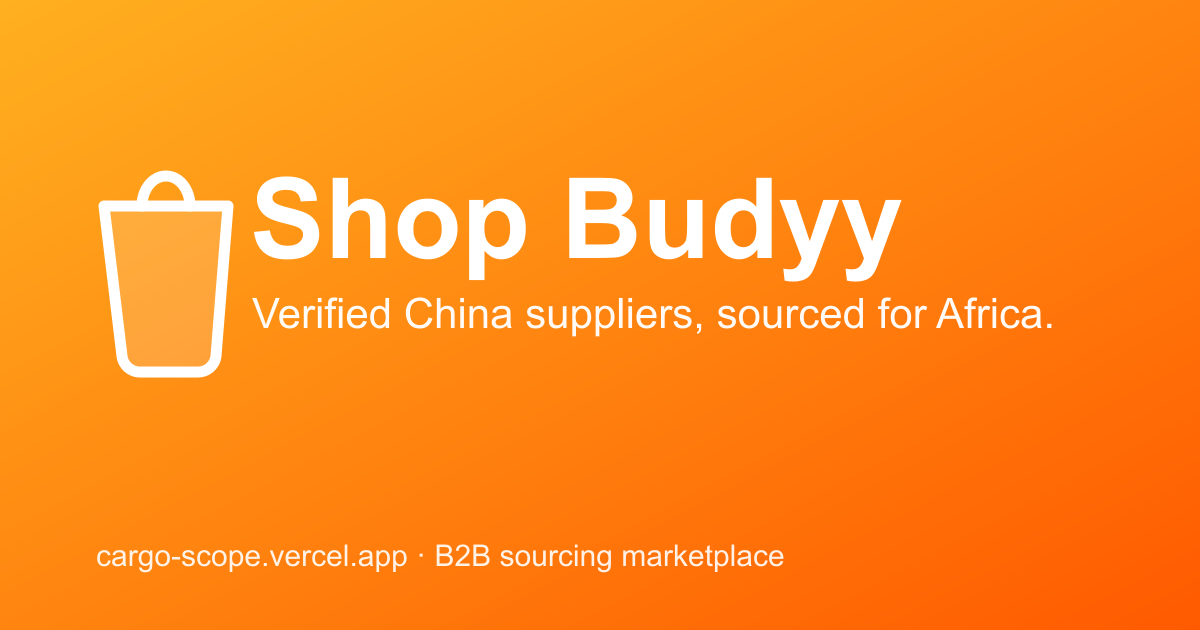
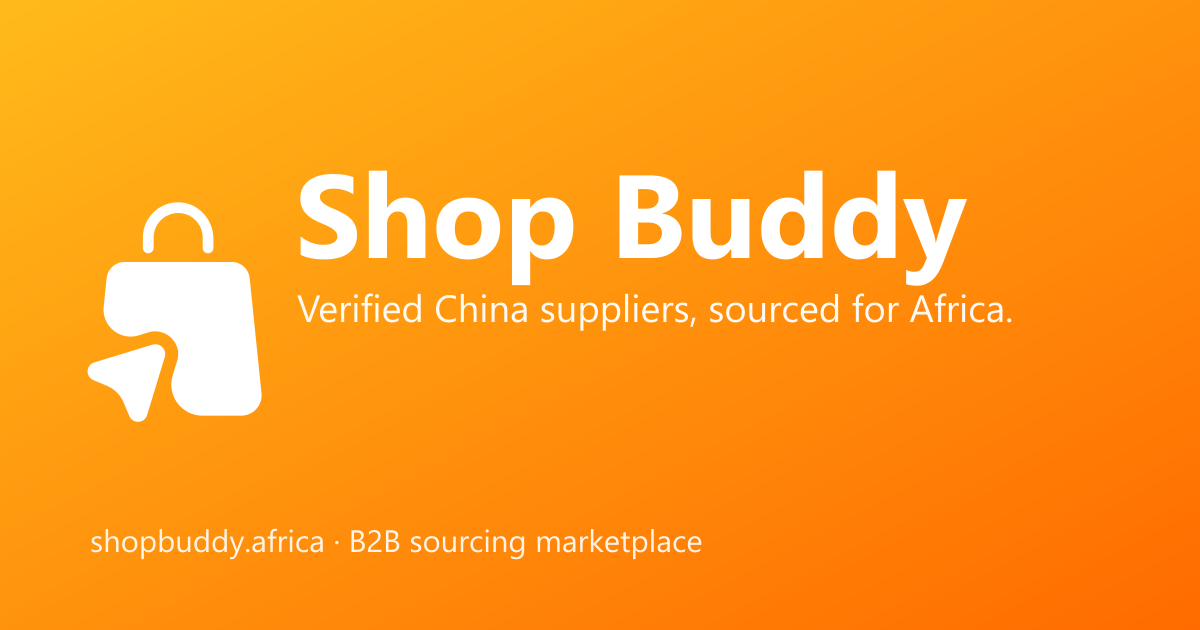
Rebrand Shop Budyy to Shop Buddy across the app
Brand spelling corrected to match the new shopbuddy.africa domain: wordmark, all three locale files (en/sw/zh), page metadata and titles, email templates, 404 page, and seed data. Contact email moved to hello@shopbuddy.africa and the OG share image regenerated with the brand mark, the new name, and the new domain. Verified in-browser: header, footer, and title all read Shop Buddy with no Budyy remaining.

Changed region(s): [[0.0617, 0.2714, 0.8942, 0.6635], [0.0617, 0.8444, 0.6475, 0.9048]]

diff --git a/src/lib/db/seed.ts b/src/lib/db/seed.ts
@@ -1,5 +1,5 @@
 /**
- * Shop Budyy demo seed — populates a Supabase project with §13 prototype data:
+ * Shop Buddy demo seed — populates a Supabase project with §13 prototype data:
  * categories, 4 verified manufacturers, ~16 active products (tiered pricing +
  * media), one buyer, one admin, and one open RFQ.
  *
@@ -241,10 +241,10 @@ productSeed.push(...extraProducts)
 /* ─────────────────────────── run ─────────────────────────── */
 
 async function main() {
-  console.log("Seeding Shop Budyy demo data…")
+  console.log("Seeding Shop Buddy demo data…")
 
   // 1) Accounts (auth.users) ------------------------------------------------
-  const adminId = await ensureUser(ADMIN_EMAIL, { full_name: "Shop Budyy Admin" })
+  const adminId = await ensureUser(ADMIN_EMAIL, { full_name: "Shop Buddy Admin" })
   const buyerOwnerId = await ensureUser(BUYER_EMAIL, { full_name: "Amani Wanjiru" })
 
   const mfrOwnerIdByEmail = new Map<string, string>()
@@ -258,7 +258,7 @@ async function main() {
 
   // 2) Profiles (role assignment) -------------------------------------------
   const profileRows = [
-    { id: adminId, role: "admin", full_name: "Shop Budyy Admin", locale: "en", country: "KE" },
+    { id: adminId, role: "admin", full_name: "Shop Buddy Admin", locale: "en", country: "KE" },
     { id: buyerOwnerId, role: "buyer", full_name: "Amani Wanjiru", locale: "en", country: "KE" },
     ...[...mfrOwnerIdByEmail.entries()].map(([, id]) => ({
       id,
@@ -401,7 +401,7 @@ async function main() {
 
   // 6b) Reviewer buyers + orders + reviews (social proof) -------------------
   const reviewerOwnerId = await ensureUser("reviewers@cargoscope.app", {
-    full_name: "Shop Budyy Buyers",
+    full_name: "Shop Buddy Buyers",
   })
   ok(
     (
@@ -410,7 +410,7 @@ async function main() {
           {
             id: reviewerOwnerId,
             role: "buyer",
-            full_name: "Shop Budyy Buyers",
+            full_name: "Shop Buddy Buyers",
             locale: "en",
             country: "KE",
           },

diff --git a/src/lib/email/index.ts b/src/lib/email/index.ts
@@ -12,7 +12,7 @@ import { createAdminClient } from "@/lib/supabase/admin"
  */
 
 const SITE = process.env.NEXT_PUBLIC_SITE_URL || "http://localhost:3000"
-const FROM = process.env.RESEND_FROM_EMAIL || "Shop Budyy <noreply@cargoscope.app>"
+const FROM = process.env.RESEND_FROM_EMAIL || "Shop Buddy <noreply@cargoscope.app>"
 
 function hasResend(): boolean {
   return Boolean(process.env.RESEND_API_KEY)
@@ -35,10 +35,10 @@ function escapeHtml(s: string): string {
 
 function layout(title: string, body: string): string {
   return `<div style="font-family:system-ui,-apple-system,sans-serif;max-width:560px;margin:0 auto;padding:24px;color:#0f172a">
-    <div style="font-size:18px;font-weight:700;color:#ff7700;margin-bottom:16px">Shop Budyy</div>
+    <div style="font-size:18px;font-weight:700;color:#ff7700;margin-bottom:16px">Shop Buddy</div>
     <h1 style="font-size:20px;margin:0 0 12px">${title}</h1>
     ${body}
-    <p style="margin-top:28px;font-size:12px;color:#64748b">Shop Budyy — verified China→Africa sourcing.</p>
+    <p style="margin-top:28px;font-size:12px;color:#64748b">Shop Buddy — verified China→Africa sourcing.</p>
   </div>`
 }
 
@@ -161,7 +161,7 @@ export async function notifyConversationRecipient(
       `New message from ${fromName}`,
       layout(
         "You have a new message",
-        `<p style="font-size:14px;color:#334155">${escapeHtml(fromName)} sent you a message on Shop Budyy:</p>
+        `<p style="font-size:14px;color:#334155">${escapeHtml(fromName)} sent you a message on Shop Buddy:</p>
          <blockquote style="border-left:3px solid #e2e8f0;margin:12px 0;padding:4px 12px;color:#475569;font-size:14px">${escapeHtml(snippet)}</blockquote>
          <p style="margin-top:16px">${button(`${SITE}/messages`, "Open messages")}</p>`
       )

diff --git a/src/app/[locale]/layout.tsx b/src/app/[locale]/layout.tsx
@@ -35,20 +35,20 @@ const SITE_DESCRIPTION =
 export const metadata: Metadata = {
   metadataBase: new URL(SITE_URL),
   title: {
-    default: "Shop Budyy",
-    template: "%s · Shop Budyy",
+    default: "Shop Buddy",
+    template: "%s · Shop Buddy",
   },
   description: SITE_DESCRIPTION,
   openGraph: {
     type: "website",
-    siteName: "Shop Budyy",
-    title: "Shop Budyy",
+    siteName: "Shop Buddy",
+    title: "Shop Buddy",
     description: SITE_DESCRIPTION,
     url: "/",
   },
   twitter: {
     card: "summary_large_image",
-    title: "Shop Budyy",
+    title: "Shop Buddy",
     description: SITE_DESCRIPTION,
   },
 }

diff --git a/src/app/not-found.tsx b/src/app/not-found.tsx
@@ -19,7 +19,7 @@ export default function GlobalNotFound() {
             className="flex items-center gap-2 text-lg font-semibold tracking-tight"
           >
             <LogoMark className="size-7 shrink-0 text-primary" />
-            Shop Budyy
+            Shop Buddy
           </Link>
           <p className="text-5xl font-bold text-muted-foreground">404</p>
           <h1 className="text-2xl font-semibold">Page not found</h1>

diff --git a/src/components/brand/logo-mark.tsx b/src/components/brand/logo-mark.tsx
@@ -1,5 +1,5 @@
 /**
- * Shop Budyy logo mark — the shopping-bag + swoosh from the brand kit.
+ * Shop Buddy logo mark — the shopping-bag + swoosh from the brand kit.
  * Uses `currentColor`, so colour it with a text class (e.g. `text-primary`).
  */
 export function LogoMark({ className }: { className?: string }) {
